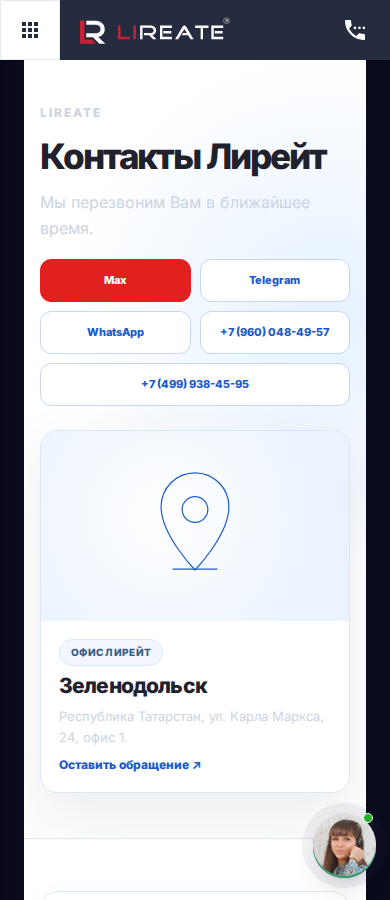
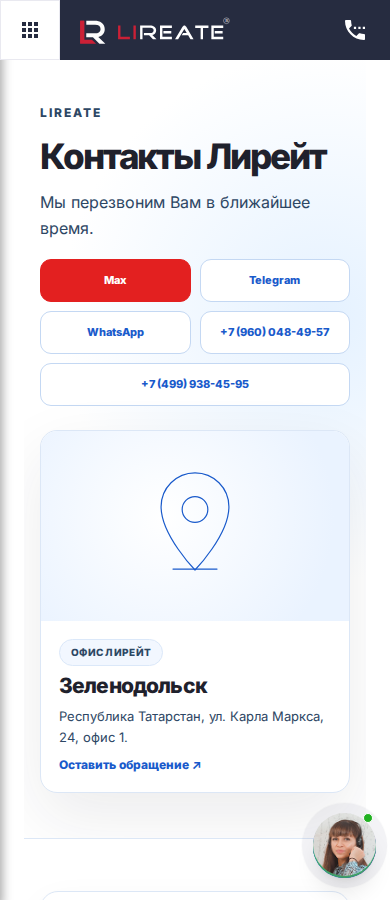
fix(company-v5): beat cms-page-dark lead contrast on partners and contacts
Raise specificity for body.lireate-cms-page-dark.lireate-company-v5 so leads,
paragraphs and labels use --lc5-readable (#2d4764) on white, not #cbd5e1 from
main.php. Bump asset query to 20261126b; add live contrast tests and QA shots.

diff --git a/template/css/lireate-company-pages-v5.css b/template/css/lireate-company-pages-v5.css
@@ -6,6 +6,7 @@
 html.lireate-company-v5, body.lireate-company-v5 {
   --lc5-ink:#1f212c;
   --lc5-muted:#52637b;
+  --lc5-readable:#2d4764;
   --lc5-red:#e32020;
   --lc5-blue:#195acb;
   --lc5-border:#dce7f6;
@@ -361,6 +362,56 @@ body.lireate-company-v5 :is(.lireate-contacts-submit,.lireate-partners-submit){b
 body.lireate-company-v5 :is(.lireate-contacts-consent,.lireate-partners-consent,.lx-consent){color:var(--lc5-muted)!important}
 body.lireate-company-v5 :is(.lireate-team-modal-panel,.lireate-about-modal-panel,.lireate-partners-modal-panel,.lireate-contacts-modal-panel){
   color:var(--lc5-ink)!important;background:#fff!important;border:1px solid var(--lc5-border)!important;border-radius:22px!important
+}
+/* Beat template/css/lireate-cms-page-dark.css (.container.content p { #cbd5e1 !important }) on live. */
+html body.lireate-cms-page-dark.lireate-company-v5 :is(#wrapper-ap,#page-content-wrapper,.wrapper,.wrapper-ap,.content,.container.content,.page_container){
+  background:#fff!important;
+  background-color:#fff!important;
+  color:var(--lc5-ink)!important;
+}
+html body.lireate-cms-page-dark.lireate-company-v5 .container.content
+:is(.lireate-about-page,.lireate-team-page,.lireate-partners-page,.lireate-docs-page,.lireate-contacts-page){
+  color:var(--lc5-ink)!important;
+  background:#fff!important;
+}
+html body.lireate-cms-page-dark.lireate-company-v5 .container.content
+:is(.lireate-about-page,.lireate-team-page,.lireate-partners-page,.lireate-docs-page,.lireate-contacts-page)
+:is(
+  p,li,dd,small,span,
+  .lireate-about-lead,.lireate-team-lead,.lireate-partners-lead,.lireate-docs-lead,.lireate-contacts-lead,
+  .lireate-about-text,.lireate-team-text,.lireate-about-text--muted,.lireate-team-text--muted,
+  .lireate-about-spec-label,.lireate-about-partner-role,
+  .lireate-team-member-role,.lireate-partners-team-role,.lireate-partners-modal-role,.lireate-partners-city,
+  .lireate-contacts-team-role,.lireate-contacts-social-label,
+  .lireate-partners-badge,.lireate-docs-badge,.lireate-contacts-badge,
+  .lireate-about-spec li,.lireate-team-steps li,.lireate-team-list-bullets li,
+  .lireate-partners-consent,.lireate-contacts-consent,.lireate-docs-card-desc,
+  label,.lireate-contacts-label
+){
+  color:var(--lc5-readable)!important;
+}
+html body.lireate-cms-page-dark.lireate-company-v5 .container.content
+:is(.lireate-about-page,.lireate-team-page,.lireate-partners-page,.lireate-docs-page,.lireate-contacts-page)
+:is(
+  .lireate-partners-field dt,.lireate-partners-contacts dt,.lireate-docs-dl dt,.lireate-contacts-dl dt
+){
+  color:#61728b!important;
+}
+html body.lireate-cms-page-dark.lireate-company-v5 .container.content
+:is(.lireate-about-page,.lireate-team-page,.lireate-partners-page,.lireate-docs-page,.lireate-contacts-page)
+:is(.lireate-about-lead,.lireate-team-lead,.lireate-partners-lead,.lireate-docs-lead,.lireate-contacts-lead){
+  color:var(--lc5-readable)!important;
+  font-weight:500!important;
+}
+html body.lireate-cms-page-dark.lireate-company-v5 .container.content
+:is(.lireate-about-page,.lireate-team-page,.lireate-partners-page,.lireate-docs-page,.lireate-contacts-page)
+:is(.lireate-team-sub,.lireate-about-tagline,.lireate-team-tagline){
+  color:var(--lc5-blue)!important;
+}
+html body.lireate-cms-page-dark.lireate-company-v5 .container.content
+:is(.lireate-about-page,.lireate-team-page,.lireate-partners-page,.lireate-docs-page,.lireate-contacts-page)
+:is(.lireate-about-kicker,.lireate-team-kicker,.lireate-partners-kicker,.lireate-docs-kicker,.lireate-contacts-kicker){
+  color:var(--lc5-red)!important;
 }
 /* Sidebar: original brand SVG adapted to light backgrounds (retains its red symbol).
    The original 759.7 × 136.1 viewBox is 5.58:1. No mask/cropping and no stretched image. */

diff --git a/scripts/test_lireate_company_v5_contrast.py b/scripts/test_lireate_company_v5_contrast.py
@@ -1,0 +1,167 @@
+#!/usr/bin/env python3
+"""WCAG contrast guards: company V5 vs live lireate-cms-page-dark shell."""
+
+import os
+import re
+import unittest
+from pathlib import Path
+from urllib.parse import urljoin
+from urllib.request import Request, urlopen
+
+ROOT = Path(__file__).resolve().parents[1]
+CSS = ROOT / "template" / "css" / "lireate-company-pages-v5.css"
+LIVE_PAGES = (
+    ("/partners", ".lireate-partners-lead"),
+    ("/contacts/", ".lireate-contacts-lead"),
+    ("/o_kompanii", ".lireate-about-lead"),
+)
+
+
+def _lum(channel):
+    c = channel / 255.0
+    return c / 12.92 if c <= 0.03928 else ((c + 0.055) / 1.055) ** 2.4
+
+
+def contrast_ratio(fg, bg):
+    l1 = 0.2126 * _lum(fg[0]) + 0.7152 * _lum(fg[1]) + 0.0722 * _lum(fg[2])
+    l2 = 0.2126 * _lum(bg[0]) + 0.7152 * _lum(bg[1]) + 0.0722 * _lum(bg[2])
+    lighter = max(l1, l2)
+    darker = min(l1, l2)
+    return (lighter + 0.05) / (darker + 0.05)
+
+
+def parse_rgb(css_color):
+    css_color = (css_color or "").strip().lower()
+    m = re.match(r"rgba?\(\s*(\d+)\s*,\s*(\d+)\s*,\s*(\d+)", css_color)
+    if m:
+        return (int(m.group(1)), int(m.group(2)), int(m.group(3)))
+    return None
+
+
+def site_origin():
+    base = os.environ.get("LIREATE_PUBLIC_SITE_URL", "").strip().rstrip("/")
+    if not base:
+        host = os.environ.get("LIREATE_PUBLIC_SITE_HOST", "").strip()
+        if host:
+            base = "https://" + host.lstrip("/")
+    return base
+
+
+def fetch_live_html(path):
+    origin = site_origin()
+    if not origin:
+        raise unittest.SkipTest("LIREATE_PUBLIC_SITE_HOST not set")
+    url = urljoin(origin + "/", path.lstrip("/"))
+    req = Request(url, headers={"User-Agent": "lireate-company-v5-contrast-test/1.0"})
+    with urlopen(req, timeout=60) as resp:
+        return resp.read().decode("utf-8", errors="replace")
+
+
+class CompanyV5ContrastCssTests(unittest.TestCase):
+    def test_readable_token_and_cms_dark_overrides(self):
+        text = CSS.read_text(encoding="utf-8")
+        self.assertIn("--lc5-readable:#2d4764", text.replace(" ", ""))
+        self.assertIn("body.lireate-cms-page-dark.lireate-company-v5", text)
+        self.assertIn(".container.content", text)
+        self.assertIn(".lireate-partners-lead", text)
+        self.assertIn(".lireate-contacts-lead", text)
+        fg = (45, 71, 100)
+        bg = (255, 255, 255)
+        self.assertGreaterEqual(contrast_ratio(fg, bg), 7.0)
+
+    def test_asset_version_query_in_templates(self):
+        needle = "lireate-company-pages-v5.css?v=20261126b"
+        for rel in (
+            "template/page/partners/lireate-partners-page.inc.php",
+            "template/page/kontaktyi/lireate-contacts-page.inc.php",
+        ):
+            body = (ROOT / rel).read_text(encoding="utf-8")
+            self.assertIn(needle, body, rel)
+
+
+class CompanyV5ContrastLiveTests(unittest.TestCase):
+    def test_live_html_has_v5_and_lead_markup(self):
+        for path, selector in LIVE_PAGES:
+            html = fetch_live_html(path)
+            class_name = selector.lstrip(".")
+            self.assertIn(class_name, html, path)
+            self.assertIn("lireate-company-v5", html, path)
+            self.assertIn("lireate-company-pages-v5.css", html, path)
+
+    def test_live_partners_and_contacts_lead_contrast_with_repo_css(self):
+        try:
+            from playwright.sync_api import sync_playwright
+        except ImportError:
+            raise unittest.SkipTest("playwright not installed")
+        origin = site_origin()
+        if not origin:
+            raise unittest.SkipTest("LIREATE_PUBLIC_SITE_HOST not set")
+        css_bytes = CSS.read_bytes()
+        checks = (
+            ("/partners", ".lireate-partners-lead"),
+            ("/contacts/", ".lireate-contacts-lead"),
+        )
+        with sync_playwright() as pw:
+            browser = pw.chromium.launch(args=["--no-sandbox"])
+            page = browser.new_page(viewport={"width": 1440, "height": 900})
+
+            def route_handler(route):
+                req = route.request
+                if "lireate-company-pages-v5.css" in req.url:
+                    route.fulfill(
+                        status=200,
+                        body=css_bytes,
+                        headers={"content-type": "text/css"},
+                    )
+                    return
+                if any(
+                    host in req.url
+                    for host in (
+                        "mc.yandex.ru",
+                        "yandex.ru/metrika",
+                        "google-analytics",
+                        "googletagmanager",
+                    )
+                ):
+                    route.abort()
+                    return
+                route.continue_()
+
+            page.route("**/*", route_handler)
+            for path, selector in checks:
+                page.goto(origin + path, wait_until="domcontentloaded", timeout=90000)
+                page.wait_for_timeout(1200)
+                data = page.eval_on_selector(
+                    selector,
+                    """(el) => {
+                        const fg = getComputedStyle(el).color;
+                        let node = el.parentElement;
+                        let bg = 'rgb(255, 255, 255)';
+                        while (node) {
+                            const c = getComputedStyle(node).backgroundColor;
+                            if (c && c !== 'rgba(0, 0, 0, 0)' && c !== 'transparent') {
+                                bg = c;
+                                break;
+                            }
+                            node = node.parentElement;
+                        }
+                        return { fg, bg };
+                    }""",
+                )
+                fg = parse_rgb(data["fg"])
+                bg = parse_rgb(data["bg"]) or (255, 255, 255)
+                self.assertIsNotNone(fg, (path, data))
+                cr = contrast_ratio(fg, bg)
+                self.assertGreaterEqual(
+                    cr,
+                    4.5,
+                    "{} {} fg={} bg={} cr={:.2f}".format(path, selector, data["fg"], data["bg"], cr),
+                )
+                self.assertNotEqual(fg, (203, 213, 225), path + " still #cbd5e1")
+                if path in ("/partners", "/contacts/"):
+                    self.assertGreaterEqual(cr, 7.0, path)
+            browser.close()
+
+
+if __name__ == "__main__":
+    unittest.main()

diff --git a/scripts/capture_company_v5_screenshots.py b/scripts/capture_company_v5_screenshots.py
@@ -85,7 +85,7 @@ def inject_v5(page, preview_html: str) -> dict:
         """async ({previewHtml}) => {
             document.documentElement.classList.add('lireate-company-v5');
             document.body.classList.add('lireate-company-v5');
-            const href = '/template/css/lireate-company-pages-v5.css?v=20261126a';
+            const href = '/template/css/lireate-company-pages-v5.css?v=20261126b';
             if (!document.querySelector('link[href*="lireate-company-pages-v5"]')) {
                 const link = document.createElement('link');
                 link.rel = 'stylesheet';
@@ -183,7 +183,22 @@ def capture_page(
 
 
 def main() -> int:
+    import argparse
     from playwright.sync_api import sync_playwright
+
+    parser = argparse.ArgumentParser()
+    parser.add_argument(
+        "--only",
+        metavar="SLUGS",
+        help="comma list: o_kompanii,team,partners,docs,contacts",
+    )
+    args = parser.parse_args()
+    page_filter = None
+    if args.only:
+        wanted = {s.strip() for s in args.only.split(",") if s.strip()}
+        page_filter = [row for row in PAGES if row[0] in wanted]
+        if not page_filter:
+            raise SystemExit("BLOCKER: no pages match --only")
 
     port = int(os.environ.get("LIREATE_COMPANY_V5_PREVIEW_PORT", "19085"))
     base = site_base()
@@ -192,7 +207,8 @@ def main() -> int:
     try:
         with sync_playwright() as p:
             browser = p.chromium.launch(args=["--no-sandbox"])
-            for slug, live_path, preview_path in PAGES:
+            rows = page_filter if page_filter is not None else PAGES
+            for slug, live_path, preview_path in rows:
                 live_url = base + live_path
                 preview_url = "http://127.0.0.1:%d%s" % (port, preview_path)
                 for width in (390, 1440):

diff --git a/pages/kontaktyi/_shared/lireate-contacts-page.inc.php b/pages/kontaktyi/_shared/lireate-contacts-page.inc.php
@@ -36,7 +36,7 @@ $lc_footer_css = defined('LIREATE_CONTACTS_FOOTER_CSS_HREF')
 <link href="https://fonts.googleapis.com/css2?family=Marmelad&family=Rubik:wght@400;600;700&family=Unbounded:wght@700;800&display=swap" rel="stylesheet">
 <link rel="stylesheet" href="<?php echo lireate_contacts_h($lc_assets); ?>/lireate-contacts.css?v=<?php echo lireate_contacts_h($lc_v); ?>">
 <link rel="stylesheet" href="<?php echo lireate_contacts_h($lc_footer_css); ?>?v=<?php echo lireate_contacts_h($lc_v); ?>">
-<link rel="stylesheet" href="/template/css/lireate-company-pages-v5.css?v=20261126a">
+<link rel="stylesheet" href="/template/css/lireate-company-pages-v5.css?v=20261126b">
 <script>
 document.documentElement.classList.add('lireate-contacts-html');
 document.documentElement.setAttribute('data-lireate-metrika-id', '<?php echo lireate_contacts_h(LIREATE_CONTACTS_METRIKA_ID); ?>');

diff --git a/pages/partners/_shared/lireate-partners-page.inc.php b/pages/partners/_shared/lireate-partners-page.inc.php
@@ -34,7 +34,7 @@ $lp_footer_css = defined('LIREATE_PARTNERS_FOOTER_CSS_HREF')
 <link href="https://fonts.googleapis.com/css2?family=Marmelad&family=Rubik:wght@400;600;700&family=Unbounded:wght@700;800&display=swap" rel="stylesheet">
 <link rel="stylesheet" href="<?php echo lireate_partners_h($lp_assets); ?>/lireate-partners.css?v=<?php echo lireate_partners_h($lp_v); ?>">
 <link rel="stylesheet" href="<?php echo lireate_partners_h($lp_footer_css); ?>?v=<?php echo lireate_partners_h($lp_v); ?>">
-<link rel="stylesheet" href="/template/css/lireate-company-pages-v5.css?v=20261126a">
+<link rel="stylesheet" href="/template/css/lireate-company-pages-v5.css?v=20261126b">
 <script>
 document.documentElement.classList.add('lireate-partners-html');
 document.documentElement.setAttribute('data-lireate-metrika-id', '<?php echo lireate_partners_h(LIREATE_PARTNERS_METRIKA_ID); ?>');

diff --git a/template/page/kontaktyi/lireate-contacts-page.inc.php b/template/page/kontaktyi/lireate-contacts-page.inc.php
@@ -36,7 +36,7 @@ $lc_footer_css = defined('LIREATE_CONTACTS_FOOTER_CSS_HREF')
 <link href="https://fonts.googleapis.com/css2?family=Marmelad&family=Rubik:wght@400;600;700&family=Unbounded:wght@700;800&display=swap" rel="stylesheet">
 <link rel="stylesheet" href="<?php echo lireate_contacts_h($lc_assets); ?>/lireate-contacts.css?v=<?php echo lireate_contacts_h($lc_v); ?>">
 <link rel="stylesheet" href="<?php echo lireate_contacts_h($lc_footer_css); ?>?v=<?php echo lireate_contacts_h($lc_v); ?>">
-<link rel="stylesheet" href="/template/css/lireate-company-pages-v5.css?v=20261126a">
+<link rel="stylesheet" href="/template/css/lireate-company-pages-v5.css?v=20261126b">
 <script>
 document.documentElement.classList.add('lireate-contacts-html');
 document.documentElement.setAttribute('data-lireate-metrika-id', '<?php echo lireate_contacts_h(LIREATE_CONTACTS_METRIKA_ID); ?>');

diff --git a/template/page/partners/lireate-partners-page.inc.php b/template/page/partners/lireate-partners-page.inc.php
@@ -34,7 +34,7 @@ $lp_footer_css = defined('LIREATE_PARTNERS_FOOTER_CSS_HREF')
 <link href="https://fonts.googleapis.com/css2?family=Marmelad&family=Rubik:wght@400;600;700&family=Unbounded:wght@700;800&display=swap" rel="stylesheet">
 <link rel="stylesheet" href="<?php echo lireate_partners_h($lp_assets); ?>/lireate-partners.css?v=<?php echo lireate_partners_h($lp_v); ?>">
 <link rel="stylesheet" href="<?php echo lireate_partners_h($lp_footer_css); ?>?v=<?php echo lireate_partners_h($lp_v); ?>">
-<link rel="stylesheet" href="/template/css/lireate-company-pages-v5.css?v=20261126a">
+<link rel="stylesheet" href="/template/css/lireate-company-pages-v5.css?v=20261126b">
 <script>
 document.documentElement.classList.add('lireate-partners-html');
 document.documentElement.setAttribute('data-lireate-metrika-id', '<?php echo lireate_partners_h(LIREATE_PARTNERS_METRIKA_ID); ?>');

diff --git a/pages/docs/_shared/lireate-docs-page.inc.php b/pages/docs/_shared/lireate-docs-page.inc.php
@@ -17,7 +17,7 @@ $ld_footer_css = defined('LIREATE_DOCS_FOOTER_CSS_HREF')
 <link href="https://fonts.googleapis.com/css2?family=Rubik:wght@400;600;700&family=Unbounded:wght@700;800&display=swap" rel="stylesheet">
 <link rel="stylesheet" href="<?php echo lireate_docs_h($ld_assets); ?>/lireate-docs.css?v=<?php echo lireate_docs_h($ld_v); ?>">
 <link rel="stylesheet" href="<?php echo lireate_docs_h($ld_footer_css); ?>?v=<?php echo lireate_docs_h($ld_v); ?>">
-<link rel="stylesheet" href="/template/css/lireate-company-pages-v5.css?v=20261126a">
+<link rel="stylesheet" href="/template/css/lireate-company-pages-v5.css?v=20261126b">
 <script>
 document.documentElement.classList.add('lireate-docs-html');
 document.documentElement.setAttribute('data-lireate-metrika-id', '<?php echo lireate_docs_h(LIREATE_DOCS_METRIKA_ID); ?>');

diff --git a/template/page/docs/lireate-docs-page.inc.php b/template/page/docs/lireate-docs-page.inc.php
@@ -17,7 +17,7 @@ $ld_footer_css = defined('LIREATE_DOCS_FOOTER_CSS_HREF')
 <link href="https://fonts.googleapis.com/css2?family=Rubik:wght@400;600;700&family=Unbounded:wght@700;800&display=swap" rel="stylesheet">
 <link rel="stylesheet" href="<?php echo lireate_docs_h($ld_assets); ?>/lireate-docs.css?v=<?php echo lireate_docs_h($ld_v); ?>">
 <link rel="stylesheet" href="<?php echo lireate_docs_h($ld_footer_css); ?>?v=<?php echo lireate_docs_h($ld_v); ?>">
-<link rel="stylesheet" href="/template/css/lireate-company-pages-v5.css?v=20261126a">
+<link rel="stylesheet" href="/template/css/lireate-company-pages-v5.css?v=20261126b">
 <script>
 document.documentElement.classList.add('lireate-docs-html');
 document.documentElement.setAttribute('data-lireate-metrika-id', '<?php echo lireate_docs_h(LIREATE_DOCS_METRIKA_ID); ?>');

diff --git a/pages/o_kompanii/_shared/lireate-about-page.inc.php b/pages/o_kompanii/_shared/lireate-about-page.inc.php
@@ -20,7 +20,7 @@ $la_footer_css = defined('LIREATE_ABOUT_FOOTER_CSS_HREF')
 <link rel="stylesheet" href="<?php echo lireate_about_h($la_footer_css); ?>?v=<?php echo lireate_about_h($la_v); ?>">
 <link rel="stylesheet" href="/template/css/lireate-light-v4.css?v=<?php echo lireate_about_h($la_v); ?>"><!-- lireate_cms_light_v4 -->
 <link rel="stylesheet" href="/template/css/lireate-cms-pages-light-v4.css?v=<?php echo lireate_about_h($la_v); ?>">
-<link rel="stylesheet" href="/template/css/lireate-company-pages-v5.css?v=20261126a">
+<link rel="stylesheet" href="/template/css/lireate-company-pages-v5.css?v=20261126b">
 <script>
 document.documentElement.classList.add('lireate-about-html');
 document.documentElement.setAttribute('data-lireate-metrika-id', '<?php echo lireate_about_h(LIREATE_ABOUT_METRIKA_ID); ?>');

diff --git a/template/page/o_kompanii/lireate-about-page.inc.php b/template/page/o_kompanii/lireate-about-page.inc.php
@@ -20,7 +20,7 @@ $la_footer_css = defined('LIREATE_ABOUT_FOOTER_CSS_HREF')
 <link rel="stylesheet" href="<?php echo lireate_about_h($la_footer_css); ?>?v=<?php echo lireate_about_h($la_v); ?>">
 <link rel="stylesheet" href="/template/css/lireate-light-v4.css?v=<?php echo lireate_about_h($la_v); ?>"><!-- lireate_cms_light_v4 -->
 <link rel="stylesheet" href="/template/css/lireate-cms-pages-light-v4.css?v=<?php echo lireate_about_h($la_v); ?>">
-<link rel="stylesheet" href="/template/css/lireate-company-pages-v5.css?v=20261126a">
+<link rel="stylesheet" href="/template/css/lireate-company-pages-v5.css?v=20261126b">
 <script>
 document.documentElement.classList.add('lireate-about-html');
 document.documentElement.setAttribute('data-lireate-metrika-id', '<?php echo lireate_about_h(LIREATE_ABOUT_METRIKA_ID); ?>');

diff --git a/pages/team/_shared/lireate-team-page.inc.php b/pages/team/_shared/lireate-team-page.inc.php
@@ -31,7 +31,7 @@ $lt_footer_css = defined('LIREATE_TEAM_FOOTER_CSS_HREF')
 <link rel="stylesheet" href="<?php echo lireate_team_h($lt_footer_css); ?>?v=<?php echo lireate_team_h($lt_v); ?>">
 <link rel="stylesheet" href="/template/css/lireate-light-v4.css?v=<?php echo lireate_team_h($lt_v); ?>">
 <link rel="stylesheet" href="/template/css/lireate-cms-pages-light-v4.css?v=<?php echo lireate_team_h($lt_v); ?>">
-<link rel="stylesheet" href="/template/css/lireate-company-pages-v5.css?v=20261126a">
+<link rel="stylesheet" href="/template/css/lireate-company-pages-v5.css?v=20261126b">
 <script>
 document.documentElement.classList.add('lireate-team-html');
 document.documentElement.setAttribute('data-lireate-metrika-id', '<?php echo lireate_team_h(LIREATE_TEAM_METRIKA_ID); ?>');
